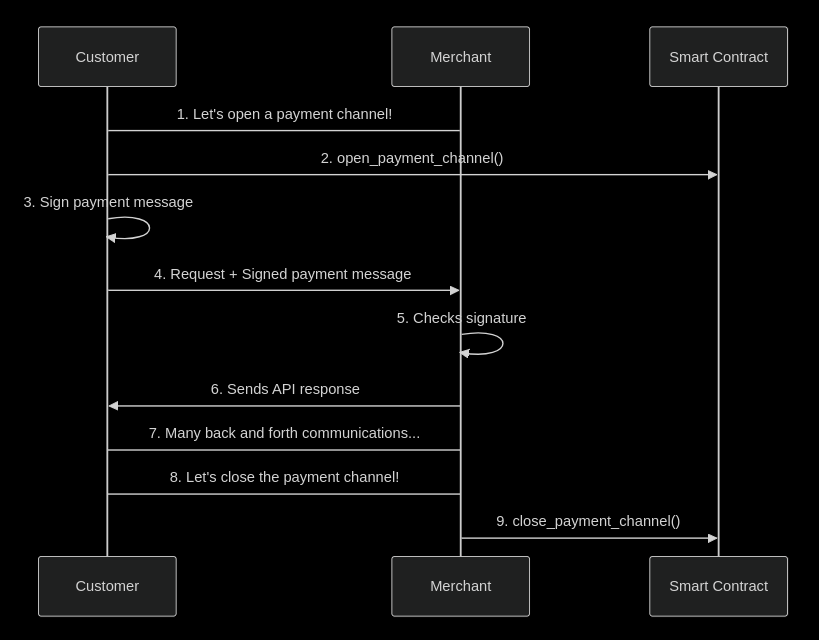
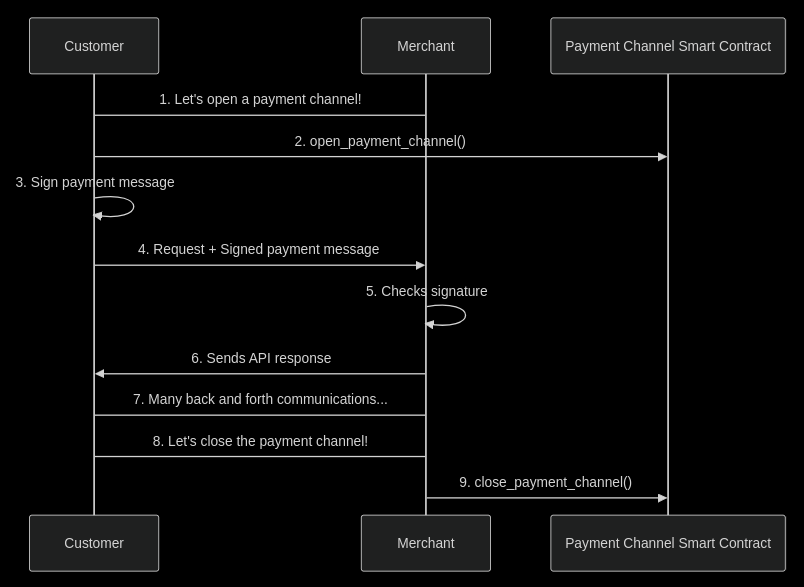
fix: update slides with payment channels slides

Changed region(s): [[0.0311, 0.0307, 0.995, 0.9813]]

diff --git a/static/static/slides/assets/index.html b/static/static/slides/assets/index.html
@@ -467,4 +467,4 @@
  console.warn('crbug/1173575, non-JS module files deprecated.');</script><script>loadTimeData.data = {"header":"Index of LOCATION","headerDateModified":"Date Modified","headerName":"Name","headerSize":"Size","language":"en","listingParsingErrorBoxText":"Oh, no! This server is sending data Brave can't understand. Please \u003Ca href=\"http://code.google.com/p/chromium/issues/entry\">report a bug\u003C/a>, and include the \u003Ca href=\"LOCATION\">raw listing\u003C/a>.","parentDirText":"[parent directory]","textdirection":"ltr"};</script>
 <script>start("T̶̮̆A̵̗̓Ȏ̴̡Ä̷̗́ ̷̦̋I̴̦͆ṋ̶͗d̸͖͗e̵̬͌x̷̞̂");</script>
 <script>onHasParentDirectory();</script>
-<script>addRow("arch.png","https://taoa.io/static/slides/assets/arch.png",0,1,"9569B",1650995539,"2024-08-07 02:03:17.870564");</script><script>addRow("audio_embeds.png","https://taoa.io/static/slides/assets/audio_embeds.png",0,1,"54438B",1650995539,"2024-08-04 20:25:07.363830");</script><script>addRow("benchmark_bs.png","https://taoa.io/static/slides/assets/benchmark_bs.png",0,1,"633735B",1650995539,"2024-09-24 00:44:00.852150");</script><script>addRow("karpathy_tweet.png","https://taoa.io/static/slides/assets/karpathy_tweet.png",0,1,"23995B",1650995539,"2024-10-22 15:31:14.058719");</script><script>addRow("kingmanwomanqueen.png","https://taoa.io/static/slides/assets/kingmanwomanqueen.png",0,1,"30487B",1650995539,"2020-11-15 22:52:26");</script><script>addRow("lmarena.png","https://taoa.io/static/slides/assets/lmarena.png",0,1,"152514B",1650995539,"2024-09-24 01:25:23.858588");</script><script>addRow("model_compat.png","https://taoa.io/static/slides/assets/model_compat.png",0,1,"15816B",1650995539,"2024-08-04 22:44:23.344944");</script><script>addRow("photo_5165660517153484135_y.jpg","https://taoa.io/static/slides/assets/photo_5165660517153484135_y.jpg",0,1,"53834B",1650995539,"2024-09-26 19:15:27.819449");</script><script>addRow("prompt_no_parameter.png","https://taoa.io/static/slides/assets/prompt_no_parameter.png",0,1,"18034B",1650995539,"2024-10-22 16:22:04.717031");</script><script>addRow("prompt_parameter.png","https://taoa.io/static/slides/assets/prompt_parameter.png",0,1,"18097B",1650995539,"2024-10-22 16:23:30.561845");</script><script>addRow("prompt_parameter_condition.png","https://taoa.io/static/slides/assets/prompt_parameter_condition.png",0,1,"23322B",1650995539,"2024-10-22 16:35:32.920791");</script><script>addRow("prompted_anime.webp","https://taoa.io/static/slides/assets/prompted_anime.webp",0,1,"638532B",1650995539,"2024-10-22 17:08:42.179450");</script><script>addRow("prompted_monsters.webp","https://taoa.io/static/slides/assets/prompted_monsters.webp",0,1,"576348B",1650995539,"2024-10-22 17:07:23.099596");</script><script>addRow("prompted_people.webp","https://taoa.io/static/slides/assets/prompted_people.webp",0,1,"629710B",1650995539,"2024-10-22 17:06:03.201745");</script><script>addRow("shortest_path_length_histogram_bidirectional.png","https://taoa.io/static/slides/assets/shortest_path_length_histogram_bidirectional.png",0,1,"58204B",1650995539,"2024-02-13 15:38:23.171006");</script><script>addRow("similarity_ordered.png","https://taoa.io/static/slides/assets/similarity_ordered.png",0,1,"269222B",1650995539,"2024-02-13 03:54:20.783704");</script><script>addRow("similarity_ordered_lines.png","https://taoa.io/static/slides/assets/similarity_ordered_lines.png",0,1,"306578B",1650995539,"2024-02-13 03:54:20.784704");</script><script>addRow("similarity_unordered.png","https://taoa.io/static/slides/assets/similarity_unordered.png",0,1,"1822912B",1650995539,"2024-02-13 03:54:20.785704");</script><script>addRow("test_graph.svg","https://taoa.io/static/slides/assets/test_graph.svg",0,1,"11970679B",1650995539,"2024-02-12 23:50:26.550238");</script><script>addRow("whodis_monsters.png","https://taoa.io/static/slides/assets/whodis_monsters.png",0,1,"26008B",1650995539,"2024-10-22 16:58:07.615056");</script><script>addRow("word_embeddings_2d.png","https://taoa.io/static/slides/assets/word_embeddings_2d.png",0,1,"738427B",1650995539,"2024-02-13 04:06:51.511514");</script><script>addRow("wordgolf_datasets.png","https://taoa.io/static/slides/assets/wordgolf_datasets.png",0,1,"94355B",1650995539,"2024-02-12 20:19:33.058387");</script><script>addRow("wordgolf_filtered_words.png","https://taoa.io/static/slides/assets/wordgolf_filtered_words.png",0,1,"317247B",1650995539,"2024-02-12 20:43:11.166710");</script><script>addRow("wordgolf_qr.png","https://taoa.io/static/slides/assets/wordgolf_qr.png",0,1,"20751B",1650995539,"2024-02-11 23:25:06.192728");</script><script>addRow("wordgolf_qr.svg","https://taoa.io/static/slides/assets/wordgolf_qr.svg",0,1,"34351B",1650995539,"2024-02-11 23:22:49.617743");</script>
+<script>addRow("Screenshot from 2024-12-03 19.59.42.png","https://taoa.io/static/slides/assets/Screenshot from 2024-12-03 19.59.42.png",0,1,"36292B",1650995539,"2024-12-03 19:59:44.647716");</script><script>addRow("State_Channels_Hierarchy.png","https://taoa.io/static/slides/assets/State_Channels_Hierarchy.png",0,1,"22716B",1650995539,"2025-02-24 23:43:17.309675");</script><script>addRow("alex-nobg.png","https://taoa.io/static/slides/assets/alex-nobg.png",0,1,"67859B",1650995539,"2024-10-28 11:24:53.355286");</script><script>addRow("arch.png","https://taoa.io/static/slides/assets/arch.png",0,1,"9569B",1650995539,"2024-08-07 02:03:17.870564");</script><script>addRow("audio_embeds.png","https://taoa.io/static/slides/assets/audio_embeds.png",0,1,"54438B",1650995539,"2024-08-04 20:25:07.363830");</script><script>addRow("benchmark_bs.png","https://taoa.io/static/slides/assets/benchmark_bs.png",0,1,"633735B",1650995539,"2024-09-24 00:44:00.852150");</script><script>addRow("karpathy_tweet.png","https://taoa.io/static/slides/assets/karpathy_tweet.png",0,1,"23995B",1650995539,"2024-10-22 15:31:14.058719");</script><script>addRow("kingmanwomanqueen.png","https://taoa.io/static/slides/assets/kingmanwomanqueen.png",0,1,"30487B",1650995539,"2020-11-15 22:52:26");</script><script>addRow("lmarena.png","https://taoa.io/static/slides/assets/lmarena.png",0,1,"152514B",1650995539,"2024-09-24 01:25:23.858588");</script><script>addRow("model_compat.png","https://taoa.io/static/slides/assets/model_compat.png",0,1,"15816B",1650995539,"2024-08-04 22:44:23.344944");</script><script>addRow("payment_channel_code_sample_1.png","https://taoa.io/static/slides/assets/payment_channel_code_sample_1.png",0,1,"62915B",1650995539,"2025-02-25 00:18:30.318255");</script><script>addRow("payment_channel_code_sample_2.png","https://taoa.io/static/slides/assets/payment_channel_code_sample_2.png",0,1,"83947B",1650995539,"2025-02-25 00:20:38.255781");</script><script>addRow("payment_channel_code_sample_3.png","https://taoa.io/static/slides/assets/payment_channel_code_sample_3.png",0,1,"124808B",1650995539,"2025-02-25 00:24:45.563866");</script><script>addRow("payment_channel_code_sample_4.png","https://taoa.io/static/slides/assets/payment_channel_code_sample_4.png",0,1,"105947B",1650995539,"2025-02-25 00:33:42.747367");</script><script>addRow("payment_channel_diagram.png","https://taoa.io/static/slides/assets/payment_channel_diagram.png",0,1,"100648B",1650995539,"2025-02-24 21:59:46.975716");</script><script>addRow("payment_channel_sequence_diagram.png","https://taoa.io/static/slides/assets/payment_channel_sequence_diagram.png",0,1,"47569B",1650995539,"2025-02-25 15:53:12.435816");</script><script>addRow("prompt_no_parameter.png","https://taoa.io/static/slides/assets/prompt_no_parameter.png",0,1,"18034B",1650995539,"2024-10-22 16:22:04.717031");</script><script>addRow("prompt_parameter.png","https://taoa.io/static/slides/assets/prompt_parameter.png",0,1,"18097B",1650995539,"2024-10-22 16:23:30.561845");</script><script>addRow("prompt_parameter_condition.png","https://taoa.io/static/slides/assets/prompt_parameter_condition.png",0,1,"23322B",1650995539,"2024-10-22 16:35:32.920791");</script><script>addRow("prompted_anime.webp","https://taoa.io/static/slides/assets/prompted_anime.webp",0,1,"638532B",1650995539,"2024-10-22 17:08:42.179450");</script><script>addRow("prompted_monsters.webp","https://taoa.io/static/slides/assets/prompted_monsters.webp",0,1,"576348B",1650995539,"2024-10-22 17:07:23.099596");</script><script>addRow("prompted_people.webp","https://taoa.io/static/slides/assets/prompted_people.webp",0,1,"629710B",1650995539,"2024-10-22 17:06:03.201745");</script><script>addRow("shortest_path_length_histogram_bidirectional.png","https://taoa.io/static/slides/assets/shortest_path_length_histogram_bidirectional.png",0,1,"58204B",1650995539,"2024-02-13 15:38:23.171006");</script><script>addRow("similarity_ordered.png","https://taoa.io/static/slides/assets/similarity_ordered.png",0,1,"269222B",1650995539,"2024-02-13 03:54:20.783704");</script><script>addRow("similarity_ordered_lines.png","https://taoa.io/static/slides/assets/similarity_ordered_lines.png",0,1,"306578B",1650995539,"2024-02-13 03:54:20.784704");</script><script>addRow("similarity_unordered.png","https://taoa.io/static/slides/assets/similarity_unordered.png",0,1,"1822912B",1650995539,"2024-02-13 03:54:20.785704");</script><script>addRow("test_graph.svg","https://taoa.io/static/slides/assets/test_graph.svg",0,1,"11970679B",1650995539,"2024-02-12 23:50:26.550238");</script><script>addRow("whodis_monsters.png","https://taoa.io/static/slides/assets/whodis_monsters.png",0,1,"26008B",1650995539,"2024-10-22 16:58:07.615056");</script><script>addRow("word_embeddings_2d.png","https://taoa.io/static/slides/assets/word_embeddings_2d.png",0,1,"738427B",1650995539,"2024-02-13 04:06:51.511514");</script><script>addRow("wordgolf_datasets.png","https://taoa.io/static/slides/assets/wordgolf_datasets.png",0,1,"94355B",1650995539,"2024-02-12 20:19:33.058387");</script><script>addRow("wordgolf_filtered_words.png","https://taoa.io/static/slides/assets/wordgolf_filtered_words.png",0,1,"317247B",1650995539,"2024-02-12 20:43:11.166710");</script><script>addRow("wordgolf_qr.png","https://taoa.io/static/slides/assets/wordgolf_qr.png",0,1,"20751B",1650995539,"2024-02-11 23:25:06.192728");</script><script>addRow("wordgolf_qr.svg","https://taoa.io/static/slides/assets/wordgolf_qr.svg",0,1,"34351B",1650995539,"2024-02-11 23:22:49.617743");</script>

diff --git a/static/static/slides/llm_payment_channels.html b/static/static/slides/llm_payment_channels.html
@@ -23,8 +23,8 @@
 
 
 <section>
-<section id="slide-org55274fc">
-<h2 id="org55274fc">About me</h2>
+<section id="slide-org1dfe66a">
+<h2 id="org1dfe66a">About me</h2>
 <ul>
 <li>ML Engineer by trade</li>
 <li>Wannabe researcher / solopreneur</li>
@@ -37,8 +37,8 @@
 </section>
 </section>
 <section>
-<section id="slide-org2489c49">
-<h2 id="org2489c49">“The future is already here – it's just not evenly distributed.”</h2>
+<section id="slide-org3173335">
+<h2 id="org3173335">“The future is already here – it&rsquo;s just not evenly distributed.”</h2>
 <p>
 ― William Gibson
 </p>
@@ -46,36 +46,37 @@
 </section>
 </section>
 <section>
-<section id="slide-orge3c7e11">
-<h2 id="orge3c7e11">Goal of this presentation</h2>
+<section id="slide-orgb42824f">
+<h2 id="orgb42824f">Goal of this presentation</h2>
 <p>
-To share a potential future of AI agent payments
+To share one potential future of AI agent payments
 </p>
 
 </section>
 </section>
 <section>
-<section id="slide-org88d036e">
-<h2 id="org88d036e">Outline</h2>
+<section id="slide-orgb11dfc9">
+<h2 id="orgb11dfc9">Outline</h2>
 <ol>
-<li>LLMs and the "Outside World" (APIs)</li>
-<li>How We Pay for APIs Today</li>
-<li>Using Cryptocurrency for API Payments
+<li>LLMs and the &ldquo;Outside World&rdquo; (APIs)</li>
+<li>How we pay for APIs today</li>
+<li>Using cryptocurrency for API payments
 <ul>
 <li>Payment Channels</li>
 
 </ul></li>
-<li>Example Prototype</li>
+<li>Research prototype (pay-per-prompt)</li>
 
 </ol>
 
 </section>
 </section>
 <section>
-<section id="slide-org8e34d4e">
-<h2 id="org8e34d4e">The rocks can <del>type</del> use the internet!</h2>
+<section id="slide-org1e675bc">
+<h2 id="org1e675bc">The rocks can <del>type</del> use the internet!</h2>
 <ul>
-<li>LLM structured output has made it possible for LLMs to use "anything"</li>
+<li>LLM structured output has made it possible for LLMs to use &ldquo;anything&rdquo;</li>
+<li>This is the future of AI agent systems</li>
 <li>Examples:
 <ul>
 <li>OpenAI operator mode or Claude computer use</li>
@@ -88,8 +89,8 @@ To share a potential future of AI agent payments
 </section>
 </section>
 <section>
-<section id="slide-org4728021">
-<h2 id="org4728021">How we pay for APIs today</h2>
+<section id="slide-org932051c">
+<h2 id="org932051c">How we pay for APIs today</h2>
 <ol>
 <li>Make an account</li>
 <li>Enter credit card details</li>
@@ -102,14 +103,14 @@ To share a potential future of AI agent payments
 </section>
 </section>
 <section>
-<section id="slide-org68adf33">
-<h2 id="org68adf33">How do we make API payments as easy as possible for AI agents?</h2>
+<section id="slide-orgeb092c2">
+<h2 id="orgeb092c2">How do we make API payments as easy as possible for AI agents?</h2>
 
 </section>
 </section>
 <section>
-<section id="slide-org9ad85d3">
-<h2 id="org9ad85d3">So what if?</h2>
+<section id="slide-orgc39a428">
+<h2 id="orgc39a428">So what if?</h2>
 <ol>
 <li><del>Make an account</del></li>
 <li><del>Enter credit card details</del></li>
@@ -122,8 +123,8 @@ To share a potential future of AI agent payments
 </section>
 </section>
 <section>
-<section id="slide-orge96b99c">
-<h2 id="orge96b99c">How?</h2>
+<section id="slide-org3c7befe">
+<h2 id="org3c7befe">How?</h2>
 <p>
 With cryptocurrency payment channels
 </p>
@@ -131,8 +132,8 @@ With cryptocurrency payment channels
 </section>
 </section>
 <section>
-<section id="slide-org73b53d1">
-<h2 id="org73b53d1">Merits and demerits of cryptocurrency payments</h2>
+<section id="slide-org85b9b3a">
+<h2 id="org85b9b3a">Merits and demerits of cryptocurrency payments</h2>
 <ul>
 <li>Merits:
 <ul>
@@ -145,7 +146,7 @@ With cryptocurrency payment channels
 <li>Demerits:
 <ul>
 <li>Transactions are irreversible / no buyer protection</li>
-<li>Difficult on-boarding</li>
+<li>Difficult user on-boarding</li>
 <li>Uncertain regulatory outcome and tax implications</li>
 
 </ul></li>
@@ -155,21 +156,26 @@ With cryptocurrency payment channels
 </section>
 </section>
 <section>
-<section id="slide-org60de998">
-<h2 id="org60de998">What are payment channels? (1/4)</h2>
+<section id="slide-org5ba1d0e">
+<h2 id="org5ba1d0e">What are payment channels? (1/4)</h2>
 <p>
 A payment channel is a peer-to-peer network that enables participants to
 perform numerous transactions among themselves and only submit the final
 results of the processing and computation to the main blockchain.
 </p>
 
+<p>
+Payment channels are commonly called a &ldquo;layer two&rdquo; scaling solution for
+blockchains.
+</p>
+
 </section>
 </section>
 <section>
-<section id="slide-orgf0cb7f9">
-<h2 id="orgf0cb7f9">What are payment channels? (2/4)</h2>
+<section id="slide-orgc525131">
+<h2 id="orgc525131">What are payment channels? (2/4)</h2>
 
-<div id="org43430f1" class="figure">
+<div id="org4f9bf84" class="figure">
 <p><img src="./assets/payment_channel_diagram.png" alt="payment_channel_diagram.png" />
 </p>
 </div>
@@ -177,10 +183,10 @@ results of the processing and computation to the main blockchain.
 </section>
 </section>
 <section>
-<section id="slide-org18183e6">
-<h2 id="org18183e6">What are payment channels? (3/4)</h2>
+<section id="slide-orge4ece75">
+<h2 id="orge4ece75">What are payment channels? (3/4)</h2>
 
-<div id="orga8f3882" class="figure">
+<div id="org5d5b488" class="figure">
 <p><img src="./assets/payment_channel_sequence_diagram.png" alt="payment_channel_sequence_diagram.png" />
 </p>
 </div>
@@ -188,10 +194,10 @@ results of the processing and computation to the main blockchain.
 </section>
 </section>
 <section>
-<section id="slide-orga3d5715">
-<h2 id="orga3d5715">Payment channels abstracted</h2>
+<section id="slide-orgbd01a63">
+<h2 id="orgbd01a63">Payment channels abstracted</h2>
 
-<div id="org3cb2501" class="figure">
+<div id="orga590b19" class="figure">
 <p><img src="./assets/State_Channels_Hierarchy.png" alt="State_Channels_Hierarchy.png" />
 </p>
 </div>
@@ -199,21 +205,33 @@ results of the processing and computation to the main blockchain.
 </section>
 </section>
 <section>
-<section id="slide-org7169ecc">
-<h2 id="org7169ecc">Why Payment Channels?</h2>
+<section id="slide-orgecccb7d">
+<h2 id="orgecccb7d">Why Payment Channels?</h2>
 <ul>
-<li><b>Scalability:</b> Do many transactions now, settle on the blockchain later</li>
-<li><b>Speed:</b> Near-instant “off-chain” transactions, enabling real-time payments</li>
+<li><b>Cheap</b>: We only pay blockchain fees on opening and closing a channel.</li>
+<li><b>Speed:</b> Near-instant “off-chain” transactions, enabling real-time payments.</li>
+<li><b>Scalability:</b> Do many transactions now, settle on the blockchain later.</li>
+<li><b>Longevity</b>: Do many transactions over a long period of time.</li>
 
 </ul>
 
 </section>
 </section>
 <section>
-<section id="slide-orge09b230">
-<h2 id="orge09b230">What does this look like in code?</h2>
+<section id="slide-orgd8de419">
+<h2 id="orgd8de419">The prototype: Pay-Per-Prompt</h2>
+<p>
+Build a proof of concept where we can pay for LLM inference on a
+&ldquo;prompt-by-prompt&rdquo; basis with cryptocurrency.
+</p>
 
-<div id="org4f94df2" class="figure">
+</section>
+</section>
+<section>
+<section id="slide-org4541d26">
+<h2 id="org4541d26">What does this look like in code?</h2>
+
+<div id="orgb848eeb" class="figure">
 <p><img src="./assets/payment_channel_code_sample_1.png" alt="payment_channel_code_sample_1.png" />
 </p>
 </div>
@@ -221,10 +239,10 @@ results of the processing and computation to the main blockchain.
 </section>
 </section>
 <section>
-<section id="slide-orgd8ad8e0">
-<h2 id="orgd8ad8e0">What does this look like in code?</h2>
+<section id="slide-orgc5a4ca9">
+<h2 id="orgc5a4ca9">What does this look like in code?</h2>
 
-<div id="orgfd7e342" class="figure">
+<div id="org7a2832a" class="figure">
 <p><img src="./assets/payment_channel_code_sample_2.png" alt="payment_channel_code_sample_2.png" />
 </p>
 </div>
@@ -232,10 +250,10 @@ results of the processing and computation to the main blockchain.
 </section>
 </section>
 <section>
-<section id="slide-org725fad0">
-<h2 id="org725fad0">What does this look like in code?</h2>
+<section id="slide-org280eaa2">
+<h2 id="org280eaa2">What does this look like in code?</h2>
 
-<div id="org32b4bb1" class="figure">
+<div id="org3dace6a" class="figure">
 <p><img src="./assets/payment_channel_code_sample_3.png" alt="payment_channel_code_sample_3.png" />
 </p>
 </div>
@@ -243,10 +261,10 @@ results of the processing and computation to the main blockchain.
 </section>
 </section>
 <section>
-<section id="slide-orga2b6816">
-<h2 id="orga2b6816">What does this look like in code?</h2>
+<section id="slide-org18e3591">
+<h2 id="org18e3591">What does this look like in code?</h2>
 
-<div id="orgf11662c" class="figure">
+<div id="orgafa0b63" class="figure">
 <p><img src="./assets/payment_channel_code_sample_4.png" alt="payment_channel_code_sample_4.png" />
 </p>
 </div>
@@ -254,8 +272,21 @@ results of the processing and computation to the main blockchain.
 </section>
 </section>
 <section>
-<section id="slide-org73c5e0f">
-<h2 id="org73c5e0f">I'm on the internet! 🌐</h2>
+<section id="slide-org07a697e">
+<h2 id="org07a697e">The bigger picture</h2>
+<p>
+AITP: Agent Interaction &amp; Transaction Protocol
+</p>
+
+<p>
+<a href="https://aitp.dev/">https://aitp.dev/</a>
+</p>
+
+</section>
+</section>
+<section>
+<section id="slide-orgeeffc44">
+<h2 id="orgeeffc44">I&rsquo;m on the internet! 🌐</h2>
 <div style="text-align: left;width: 60%;margin: auto auto">
 <p><span style="float:left">🐙 Github:</span> <span style="float:right"><code>@cmrfrd</code></span></p>
 <br />
@@ -266,6 +297,10 @@ results of the processing and computation to the main blockchain.
 <p><span style="float:left">📑 Blog:</span> <span style="float:right"><code>taoa.io</code></span></p>
 <br />
 </div>
+
+<p>
+<code>https://github.com/nearai/pay-per-prompt</code>
+</p>
 
 <p>
 <code>taoa.io/static/slides/llm_payment_channels</code>

diff --git a/static/static/slides/index.html b/static/static/slides/index.html
@@ -467,4 +467,4 @@
  console.warn('crbug/1173575, non-JS module files deprecated.');</script><script>loadTimeData.data = {"header":"Index of LOCATION","headerDateModified":"Date Modified","headerName":"Name","headerSize":"Size","language":"en","listingParsingErrorBoxText":"Oh, no! This server is sending data Brave can't understand. Please \u003Ca href=\"http://code.google.com/p/chromium/issues/entry\">report a bug\u003C/a>, and include the \u003Ca href=\"LOCATION\">raw listing\u003C/a>.","parentDirText":"[parent directory]","textdirection":"ltr"};</script>
 <script>start("T̶̮̆A̵̗̓Ȏ̴̡Ä̷̗́ ̷̦̋I̴̦͆ṋ̶͗d̸͖͗e̵̬͌x̷̞̂");</script>
 <script>onHasParentDirectory();</script>
-<script>addRow("assets","https://taoa.io/static/slides/assets",1,1,"4096B",1650995539,"2024-10-22 17:08:42.178449");</script><script>addRow("llm_benchmarking.html","https://taoa.io/static/slides/llm_benchmarking.html",0,1,"11140B",1650995539,"2024-09-24 16:09:08.262259");</script><script>addRow("llm_benchmarking.org","https://taoa.io/static/slides/llm_benchmarking.org",0,1,"6742B",1650995539,"2024-09-24 16:09:08.229259");</script><script>addRow("oes.html","https://taoa.io/static/slides/oes.html",0,1,"8772B",1650995539,"2024-08-07 02:03:17.934563");</script><script>addRow("oes.org","https://taoa.io/static/slides/oes.org",0,1,"6040B",1650995539,"2024-08-07 02:03:15.964591");</script><script>addRow("optimal-compounding-with-penalties.html","https://taoa.io/static/slides/optimal-compounding-with-penalties.html",0,1,"576226B",1650995539,"2022-10-01 22:23:26.006565");</script><script>addRow("optimal-compounding-with-penalties.org","https://taoa.io/static/slides/optimal-compounding-with-penalties.org",0,1,"588634B",1650995539,"2022-10-01 22:23:26.006565");</script><script>addRow("paramaterizing_prompts.html","https://taoa.io/static/slides/paramaterizing_prompts.html",0,1,"5443B",1650995539,"2024-10-22 17:10:55.168906");</script><script>addRow("paramaterizing_prompts.org","https://taoa.io/static/slides/paramaterizing_prompts.org",0,1,"3164B",1650995539,"2024-10-22 17:10:55.138906");</script><script>addRow("py-switchcase.html","https://taoa.io/static/slides/py-switchcase.html",0,1,"181368B",1650995539,"2022-10-01 22:23:26.007565");</script><script>addRow("py-switchcase.org","https://taoa.io/static/slides/py-switchcase.org",0,1,"183851B",1650995539,"2024-02-11 23:05:22.099211");</script><script>addRow("wordgolf.html","https://taoa.io/static/slides/wordgolf.html",0,1,"635653B",1650995539,"2024-02-13 16:38:08.711978");</script><script>addRow("wordgolf.org","https://taoa.io/static/slides/wordgolf.org",0,1,"209619B",1650995539,"2024-02-13 16:38:03.479043");</script>
+<script>addRow("assets","https://taoa.io/static/slides/assets",1,1,"4096B",1650995539,"2025-02-25 15:53:51.890092");</script><script>addRow("llm_benchmarking.html","https://taoa.io/static/slides/llm_benchmarking.html",0,1,"11140B",1650995539,"2024-09-24 16:09:08.262259");</script><script>addRow("llm_benchmarking.org","https://taoa.io/static/slides/llm_benchmarking.org",0,1,"6742B",1650995539,"2024-09-24 16:09:08.229259");</script><script>addRow("llm_payment_channels.html","https://taoa.io/static/slides/llm_payment_channels.html",0,1,"8225B",1650995539,"2025-02-25 16:24:59.841994");</script><script>addRow("llm_payment_channels.org","https://taoa.io/static/slides/llm_payment_channels.org",0,1,"4970B",1650995539,"2025-02-25 16:24:59.814994");</script><script>addRow("oes.html","https://taoa.io/static/slides/oes.html",0,1,"8772B",1650995539,"2024-08-07 02:03:17.934563");</script><script>addRow("oes.org","https://taoa.io/static/slides/oes.org",0,1,"6040B",1650995539,"2024-08-07 02:03:15.964591");</script><script>addRow("optimal-compounding-with-penalties.html","https://taoa.io/static/slides/optimal-compounding-with-penalties.html",0,1,"576226B",1650995539,"2022-10-01 22:23:26.006565");</script><script>addRow("optimal-compounding-with-penalties.org","https://taoa.io/static/slides/optimal-compounding-with-penalties.org",0,1,"588634B",1650995539,"2022-10-01 22:23:26.006565");</script><script>addRow("paramaterizing_prompts.html","https://taoa.io/static/slides/paramaterizing_prompts.html",0,1,"5421B",1650995539,"2024-10-22 17:41:03.421171");</script><script>addRow("paramaterizing_prompts.org","https://taoa.io/static/slides/paramaterizing_prompts.org",0,1,"3142B",1650995539,"2024-10-22 17:41:03.384171");</script><script>addRow("py-switchcase.html","https://taoa.io/static/slides/py-switchcase.html",0,1,"181368B",1650995539,"2022-10-01 22:23:26.007565");</script><script>addRow("py-switchcase.org","https://taoa.io/static/slides/py-switchcase.org",0,1,"183851B",1650995539,"2024-02-11 23:05:22.099211");</script><script>addRow("wordgolf.html","https://taoa.io/static/slides/wordgolf.html",0,1,"635653B",1650995539,"2024-02-13 16:38:08.711978");</script><script>addRow("wordgolf.org","https://taoa.io/static/slides/wordgolf.org",0,1,"209619B",1650995539,"2024-02-13 16:38:03.479043");</script>

diff --git a/static/favicons/index.html b/static/favicons/index.html
@@ -467,4 +467,4 @@
  console.warn('crbug/1173575, non-JS module files deprecated.');</script><script>loadTimeData.data = {"header":"Index of LOCATION","headerDateModified":"Date Modified","headerName":"Name","headerSize":"Size","language":"en","listingParsingErrorBoxText":"Oh, no! This server is sending data Brave can't understand. Please \u003Ca href=\"http://code.google.com/p/chromium/issues/entry\">report a bug\u003C/a>, and include the \u003Ca href=\"LOCATION\">raw listing\u003C/a>.","parentDirText":"[parent directory]","textdirection":"ltr"};</script>
 <script>start("T̶̮̆A̵̗̓Ȏ̴̡Ä̷̗́ ̷̦̋I̴̦͆ṋ̶͗d̸͖͗e̵̬͌x̷̞̂");</script>
 <script>onHasParentDirectory();</script>
-<script>addRow("android-chrome-192x192.png","https://taoa.io/favicons/android-chrome-192x192.png",0,1,"2959B",1650995539,"2020-10-27 21:20:01.876193");</script><script>addRow("android-chrome-512x512.png","https://taoa.io/favicons/android-chrome-512x512.png",0,1,"7281B",1650995539,"2020-10-27 21:20:01.877193");</script><script>addRow("apple-touch-icon.png","https://taoa.io/favicons/apple-touch-icon.png",0,1,"2817B",1650995539,"2020-10-27 21:20:01.878193");</script><script>addRow("favicon-16x16.png","https://taoa.io/favicons/favicon-16x16.png",0,1,"231B",1650995539,"2020-10-27 21:20:01.879193");</script><script>addRow("favicon-32x32.png","https://taoa.io/favicons/favicon-32x32.png",0,1,"394B",1650995539,"2020-10-27 21:20:01.879193");</script><script>addRow("favicon.ico","https://taoa.io/favicons/favicon.ico",0,1,"15406B",1650995539,"2020-10-27 21:20:01.881193");</script><script>addRow("maskable_icon-512x512.png","https://taoa.io/favicons/maskable_icon-512x512.png",0,1,"17740B",1650995539,"2020-11-09 16:56:49.252367");</script><script>addRow("site.webmanifest","https://taoa.io/favicons/site.webmanifest",0,1,"533B",1650995539,"2020-11-25 23:11:43.914766");</script>
+<script>addRow("android-chrome-192x192.png","https://taoa.io/static/favicons/android-chrome-192x192.png",0,1,"2959B",1650995539,"2022-10-01 22:23:25.986565");</script><script>addRow("android-chrome-512x512.png","https://taoa.io/static/favicons/android-chrome-512x512.png",0,1,"7281B",1650995539,"2022-10-01 22:23:25.986565");</script><script>addRow("apple-touch-icon.png","https://taoa.io/static/favicons/apple-touch-icon.png",0,1,"2817B",1650995539,"2022-10-01 22:23:25.986565");</script><script>addRow("favicon-16x16.png","https://taoa.io/static/favicons/favicon-16x16.png",0,1,"231B",1650995539,"2022-10-01 22:23:25.986565");</script><script>addRow("favicon-32x32.png","https://taoa.io/static/favicons/favicon-32x32.png",0,1,"394B",1650995539,"2022-10-01 22:23:25.986565");</script><script>addRow("favicon.ico","https://taoa.io/static/favicons/favicon.ico",0,1,"15406B",1650995539,"2022-10-01 22:23:25.986565");</script><script>addRow("maskable_icon-512x512.png","https://taoa.io/static/favicons/maskable_icon-512x512.png",0,1,"17740B",1650995539,"2022-10-01 22:23:25.986565");</script><script>addRow("site.webmanifest","https://taoa.io/static/favicons/site.webmanifest",0,1,"533B",1650995539,"2022-10-01 22:23:25.986565");</script>

diff --git a/static/img/index.html b/static/img/index.html
@@ -467,4 +467,4 @@
  console.warn('crbug/1173575, non-JS module files deprecated.');</script><script>loadTimeData.data = {"header":"Index of LOCATION","headerDateModified":"Date Modified","headerName":"Name","headerSize":"Size","language":"en","listingParsingErrorBoxText":"Oh, no! This server is sending data Brave can't understand. Please \u003Ca href=\"http://code.google.com/p/chromium/issues/entry\">report a bug\u003C/a>, and include the \u003Ca href=\"LOCATION\">raw listing\u003C/a>.","parentDirText":"[parent directory]","textdirection":"ltr"};</script>
 <script>start("T̶̮̆A̵̗̓Ȏ̴̡Ä̷̗́ ̷̦̋I̴̦͆ṋ̶͗d̸͖͗e̵̬͌x̷̞̂");</script>
 <script>onHasParentDirectory();</script>
-<script>addRow("Its_provocative.gif","https://taoa.io/img/Its_provocative.gif",0,1,"2578929B",1650995539,"2022-05-08 09:27:28.617630");</script>
+<script>addRow("Its_provocative.gif","https://taoa.io/static/img/Its_provocative.gif",0,1,"2578929B",1650995539,"2022-10-01 22:23:25.998565");</script><script>addRow("weaver_graph.json","https://taoa.io/static/img/weaver_graph.json",0,1,"861258B",1650995539,"2022-10-04 12:20:10.688212");</script><script>addRow("weaver_graph.svg","https://taoa.io/static/img/weaver_graph.svg",0,1,"12470098B",1650995539,"2022-10-04 12:19:56.872977");</script>

diff --git a/static/static/index.html b/static/static/index.html
@@ -467,4 +467,4 @@
  console.warn('crbug/1173575, non-JS module files deprecated.');</script><script>loadTimeData.data = {"header":"Index of LOCATION","headerDateModified":"Date Modified","headerName":"Name","headerSize":"Size","language":"en","listingParsingErrorBoxText":"Oh, no! This server is sending data Brave can't understand. Please \u003Ca href=\"http://code.google.com/p/chromium/issues/entry\">report a bug\u003C/a>, and include the \u003Ca href=\"LOCATION\">raw listing\u003C/a>.","parentDirText":"[parent directory]","textdirection":"ltr"};</script>
 <script>start("T̶̮̆A̵̗̓Ȏ̴̡Ä̷̗́ ̷̦̋I̴̦͆ṋ̶͗d̸͖͗e̵̬͌x̷̞̂");</script>
 <script>onHasParentDirectory();</script>
-<script>addRow("misc","https://taoa.io/static/misc",1,1,"4096B",1650995539,"2024-08-07 01:54:26.387099");</script><script>addRow("slides","https://taoa.io/static/slides",1,1,"4096B",1650995539,"2024-10-22 15:34:52.043010");</script>
+<script>addRow("misc","https://taoa.io/static/misc",1,1,"4096B",1650995539,"2024-08-07 01:54:26.387099");</script><script>addRow("slides","https://taoa.io/static/slides",1,1,"4096B",1650995539,"2025-02-24 22:25:45.911586");</script>

diff --git a/static/gpg/index.html b/static/gpg/index.html
@@ -467,4 +467,4 @@
  console.warn('crbug/1173575, non-JS module files deprecated.');</script><script>loadTimeData.data = {"header":"Index of LOCATION","headerDateModified":"Date Modified","headerName":"Name","headerSize":"Size","language":"en","listingParsingErrorBoxText":"Oh, no! This server is sending data Brave can't understand. Please \u003Ca href=\"http://code.google.com/p/chromium/issues/entry\">report a bug\u003C/a>, and include the \u003Ca href=\"LOCATION\">raw listing\u003C/a>.","parentDirText":"[parent directory]","textdirection":"ltr"};</script>
 <script>start("T̶̮̆A̵̗̓Ȏ̴̡Ä̷̗́ ̷̦̋I̴̦͆ṋ̶͗d̸͖͗e̵̬͌x̷̞̂");</script>
 <script>onHasParentDirectory();</script>
-<script>addRow("23F6FE4B0B41EF3D81CFCE1764DF35FA2BAD3764","https://taoa.io/gpg/23F6FE4B0B41EF3D81CFCE1764DF35FA2BAD3764",0,1,"3134B",1650995539,"2021-07-16 00:04:26.313730");</script>
+<script>addRow("23F6FE4B0B41EF3D81CFCE1764DF35FA2BAD3764","https://taoa.io/static/gpg/23F6FE4B0B41EF3D81CFCE1764DF35FA2BAD3764",0,1,"3134B",1650995539,"2022-10-01 22:23:25.986565");</script>

diff --git a/gatsby-config.js b/gatsby-config.js
@@ -167,9 +167,9 @@ module.exports = {
     {
       resolve: 'gatsby-plugin-offline'
     },
-    // {
-    //   resolve: 'gatsby-plugin-remove-serviceworker'
-    // },
+    {
+      resolve: 'gatsby-plugin-remove-serviceworker'
+    },
     // {
     //   resolve: 'gatsby-plugin-webpack-bundle-analyser-v2',
     //   options: {
